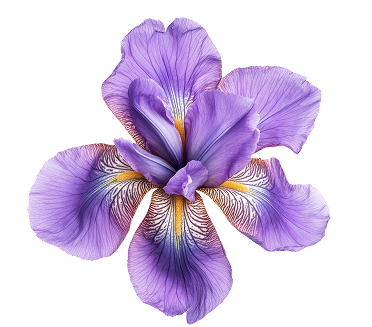
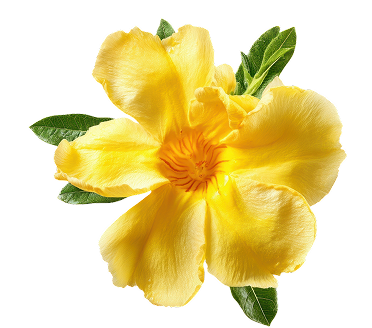
updateda and changed order of  information

diff --git a/src/App.css b/src/App.css
@@ -34,7 +34,7 @@
   display: flex;
   align-items: center;
   justify-content: center;
-  background: rgba(255, 255, 255, 0.70);
+  background: rgba(255, 255, 255, 0.7);
   border-radius: 50%;
   box-shadow: 0 1px 4px rgba(0, 0, 0, 0.25);
   border: none;
@@ -54,7 +54,7 @@
   display: flex;
   align-items: center;
   justify-content: center;
-  background: rgba(0, 0, 0, .8);
+  background: rgba(0, 0, 0, 0.8);
   cursor: pointer;
   z-index: 100;
   opacity: 1;
@@ -390,7 +390,7 @@
     font-style: normal;
     font-weight: 700;
     text-decoration: underline;
-    margin-bottom: 8px;
+    margin-bottom: 28px;
   }
 }
 
@@ -398,7 +398,7 @@
   display: flex;
   flex-direction: column;
   justify-content: center;
-  margin-top: 28px;
+  /* margin-top: 28px; */
 
   p {
     font-size: clamp(20px, 3.8vw, 20px);
@@ -408,6 +408,24 @@
     text-align: center;
     line-height: 20px;
   }
+}
+
+.compliments {
+  display: flex;
+  flex-direction: column;
+  align-items: center;
+
+  h1 {
+    color: #000;
+    text-align: center;
+    font-size: clamp(24px, 5vw, 28px);
+    font-style: normal;
+    font-weight: 700;
+  }
+}
+
+.ali {
+  /* font-size: 20px; */
 }
 
 .scrollUp {
@@ -433,7 +451,16 @@
 }
 
 @keyframes arrow-bounce {
-  0%   { transform: translateY(0);    opacity: 1; }
-  80%  { transform: translateY(20px); opacity: 0; }
-  100% { transform: translateY(20px); opacity: 0; }
+  0% {
+    transform: translateY(0);
+    opacity: 1;
+  }
+  80% {
+    transform: translateY(20px);
+    opacity: 0;
+  }
+  100% {
+    transform: translateY(20px);
+    opacity: 0;
+  }
 }

diff --git a/src/App.jsx b/src/App.jsx
@@ -226,31 +226,32 @@ export default function App() {
             <p>&</p>
             <h1>Mr. Mahamadsharif Patil</h1>
           </div>
-          <p>
-            Invite you to celebrate the Walima ceremony of our youngest son
-          </p>
+          <p>invite you to celebrate the walima ceremony of our youngest son</p>
           <div className="scrollUp">
-            <p>Walima</p>
+            <p>join us</p>
             <span className="material-symbols-outlined">arrow_downward</span>
           </div>
         </div>
         <div className="walima infoSection">
           <img src="/images/walimaFlo.png" />
           <div>
-            <p>Dawat-E-Walima</p>
+            {/* <p>for</p> */}
             <div className="hosts">
-              <h1>
-                Hidayat Patil
-              </h1>
+              <h1>Hidayat Patil</h1>
               <p>&</p>
-              <h1>
-                Asma Ibrahim
-              </h1>
+              <h1>Asma Ibrahim</h1>
               <p>D/o. Mrs. Fatima & Mr. Mohammed Ibrahim</p>
             </div>
           </div>
+          <div className="scrollUp">
+            <p>walima</p>
+            <span className="material-symbols-outlined">arrow_downward</span>
+          </div>
+        </div>
+        <div className="nikah infoSection">
+          <img src="/images/detailFlo.png" />
           <div className="placeInfo">
-            <p>Please Join Us On</p>
+            <p>dawat-e-walima</p>
             <div className="place">
               <h1>August 2nd, 2026</h1>
               <hr />
@@ -261,6 +262,14 @@ export default function App() {
             <p>Address At</p>
             <div className="address">
               <a>Concordia space, Alley N, 120th street, Kolhapur</a>
+            </div>
+          </div>
+          <div className="placeInfo">
+            <p>with best compliments from</p>
+            <div className="compliments">
+              <h1>Tazin Patil, Faisal Patil
+                <br /> & Ali Patil👶
+              </h1>
             </div>
           </div>
           <div className="scrollUp">
@@ -289,7 +298,8 @@ export default function App() {
               </a>
             </div>
           </div>
-          <p className="outro" >presents accepted in blessings.
+          <p className="outro">
+            presents accepted in blessings.
             <br /> we only wish for your presence at the event.
           </p>
         </div>